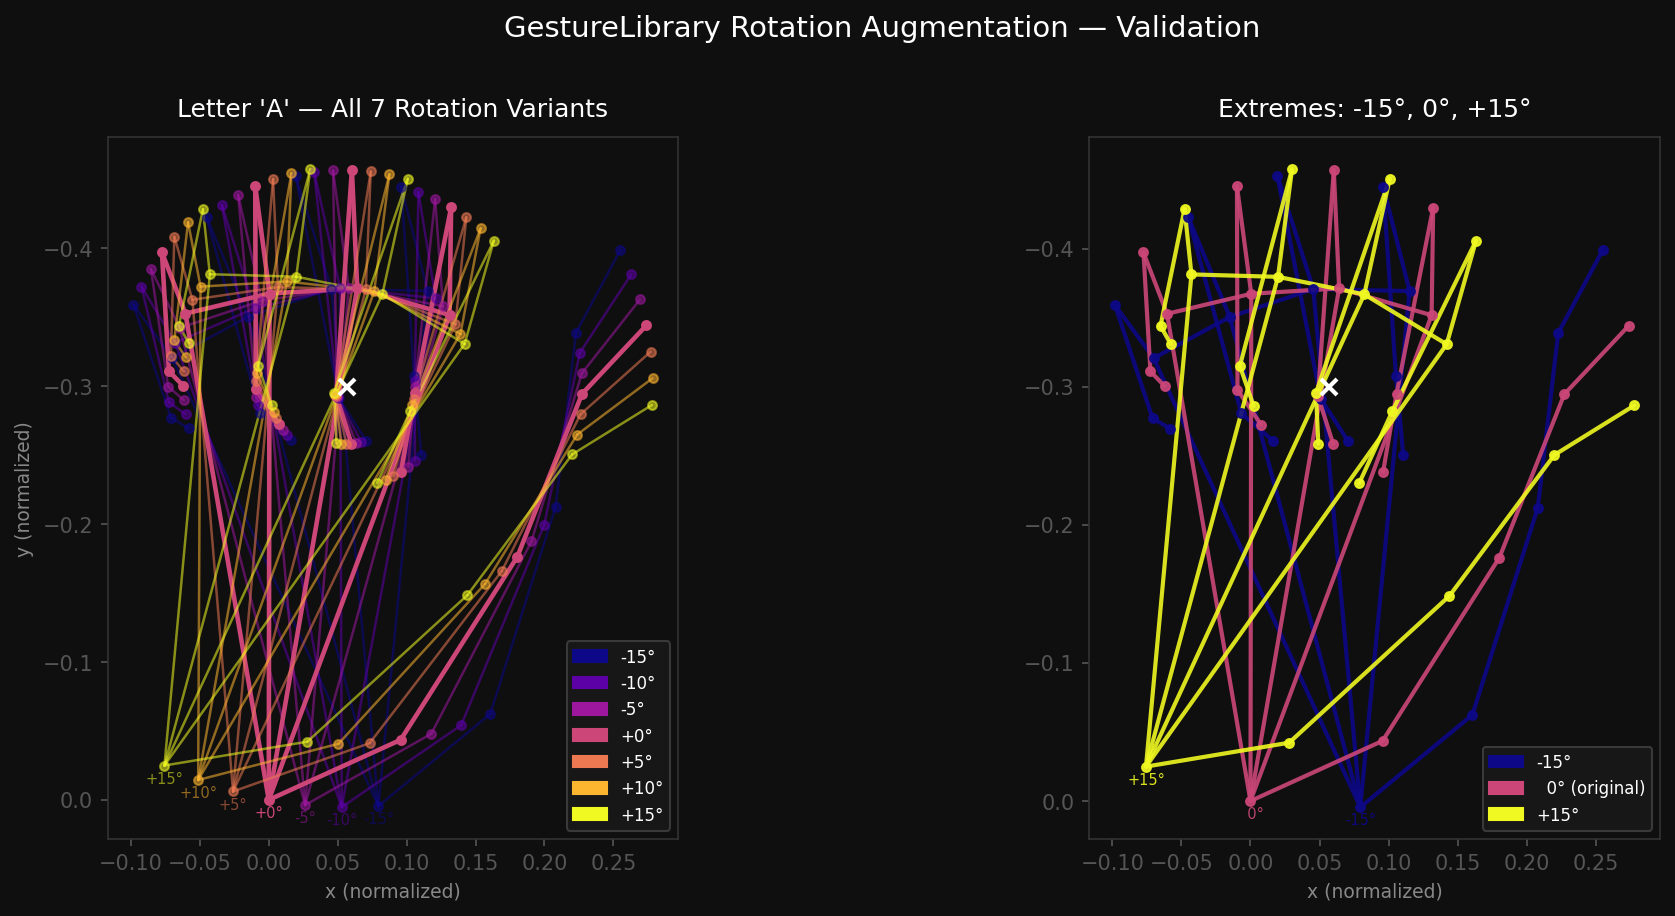
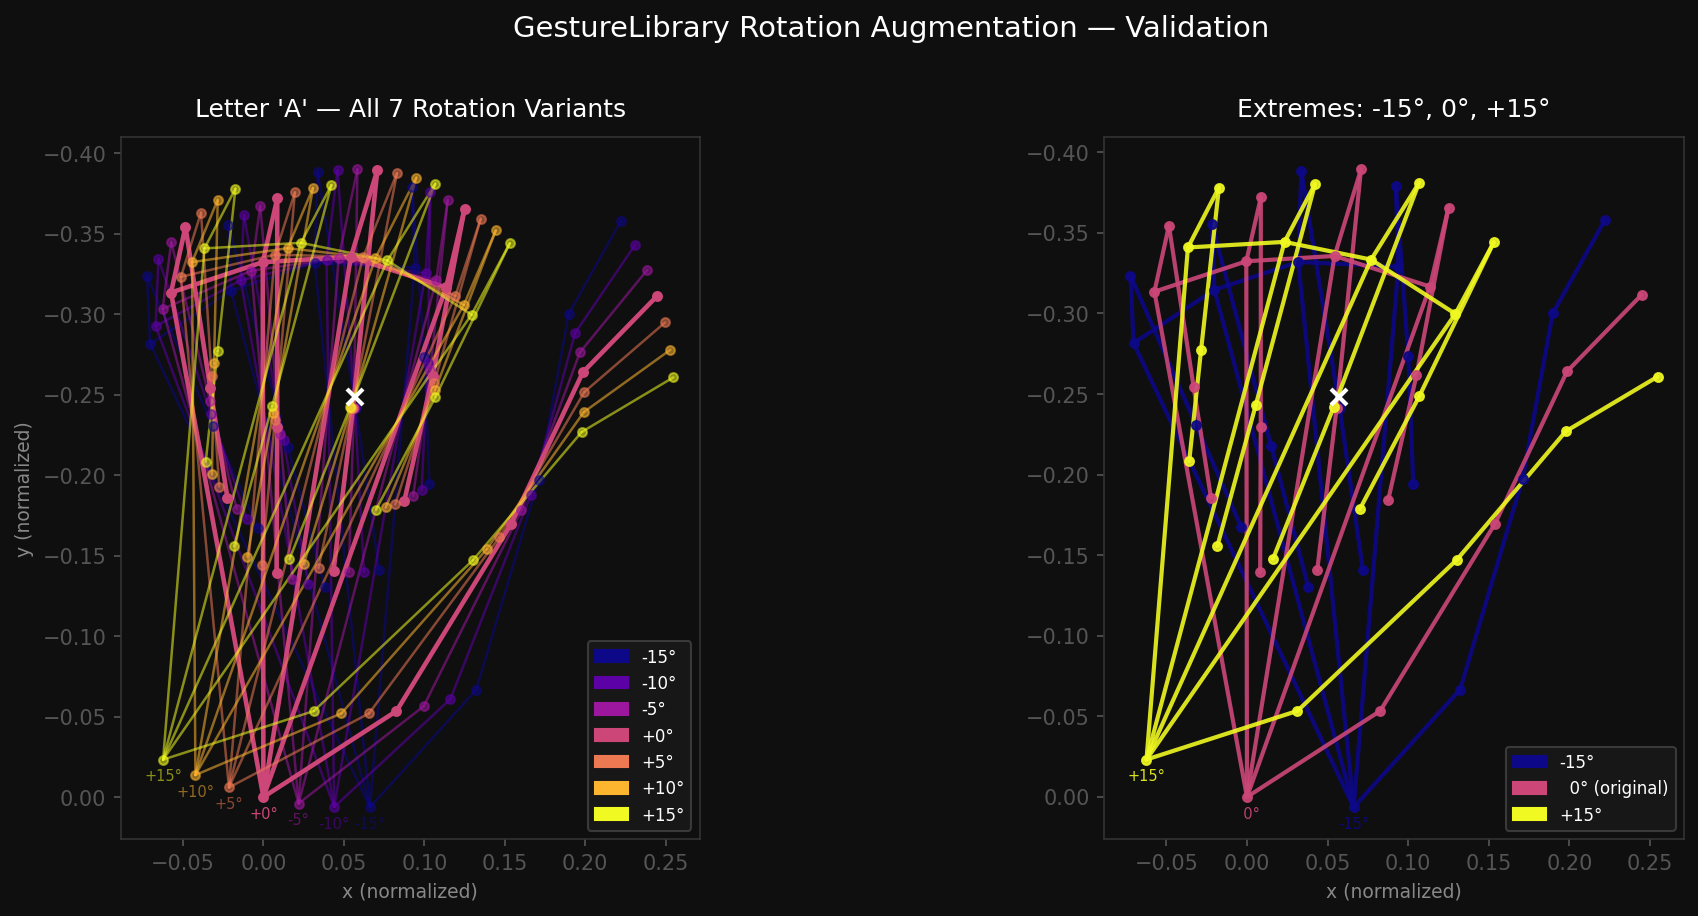
implemented new changes in reference data

diff --git a/src/main/java/aslframework/model/DynamicGestureDefinition.java b/src/main/java/aslframework/model/DynamicGestureDefinition.java
@@ -1,11 +1,13 @@
 package aslframework.model;
 
+//NOTE!! FUTURE WORK: This class is a stub - this will capture motion instead of static images
+
 import java.util.List;
 
 /**
  * Represents a dynamic ASL gesture defined by a sequence of hand poses over time.
  * Used for motion-based letters such as J and Z.
- * NOTE!!: This class is a stub - full implementation to be completed in a future iteration.
+ *
  */
 public class DynamicGestureDefinition extends GestureDefinition {
 

diff --git a/src/main/java/aslframework/model/GestureDefinition.java b/src/main/java/aslframework/model/GestureDefinition.java
@@ -7,14 +7,14 @@ package aslframework.model;
 public abstract class GestureDefinition {
 
   /**
-   * Returns the name of the ASL gesture (e.g. "A", "J").
+   * Returns the name of the ASL gesture (e.g. "A", "B", "C")
    *
    * @return the gesture name
    */
   public abstract String getGestureName();
 
   /**
-   * Returns the type of this gesture - static or dynamic.
+   * Returns the type of this gesture - static or dynamic
    *
    * @return the GestureType
    */

diff --git a/scripts/test_rotations.py b/scripts/test_rotations.py
@@ -252,7 +252,14 @@ def load_reference(letter):
   if not os.path.exists(path):
     return None
   with open(path) as f:
-    return json.load(f)["landmarks"]
+    data = json.load(f)
+
+  # New multi-capture format - use first capture for testing
+  if "captures" in data:
+    return data["captures"][0]["landmarks"]
+
+  # Old format fallback
+  return data["landmarks"]
 
 
 def main():
